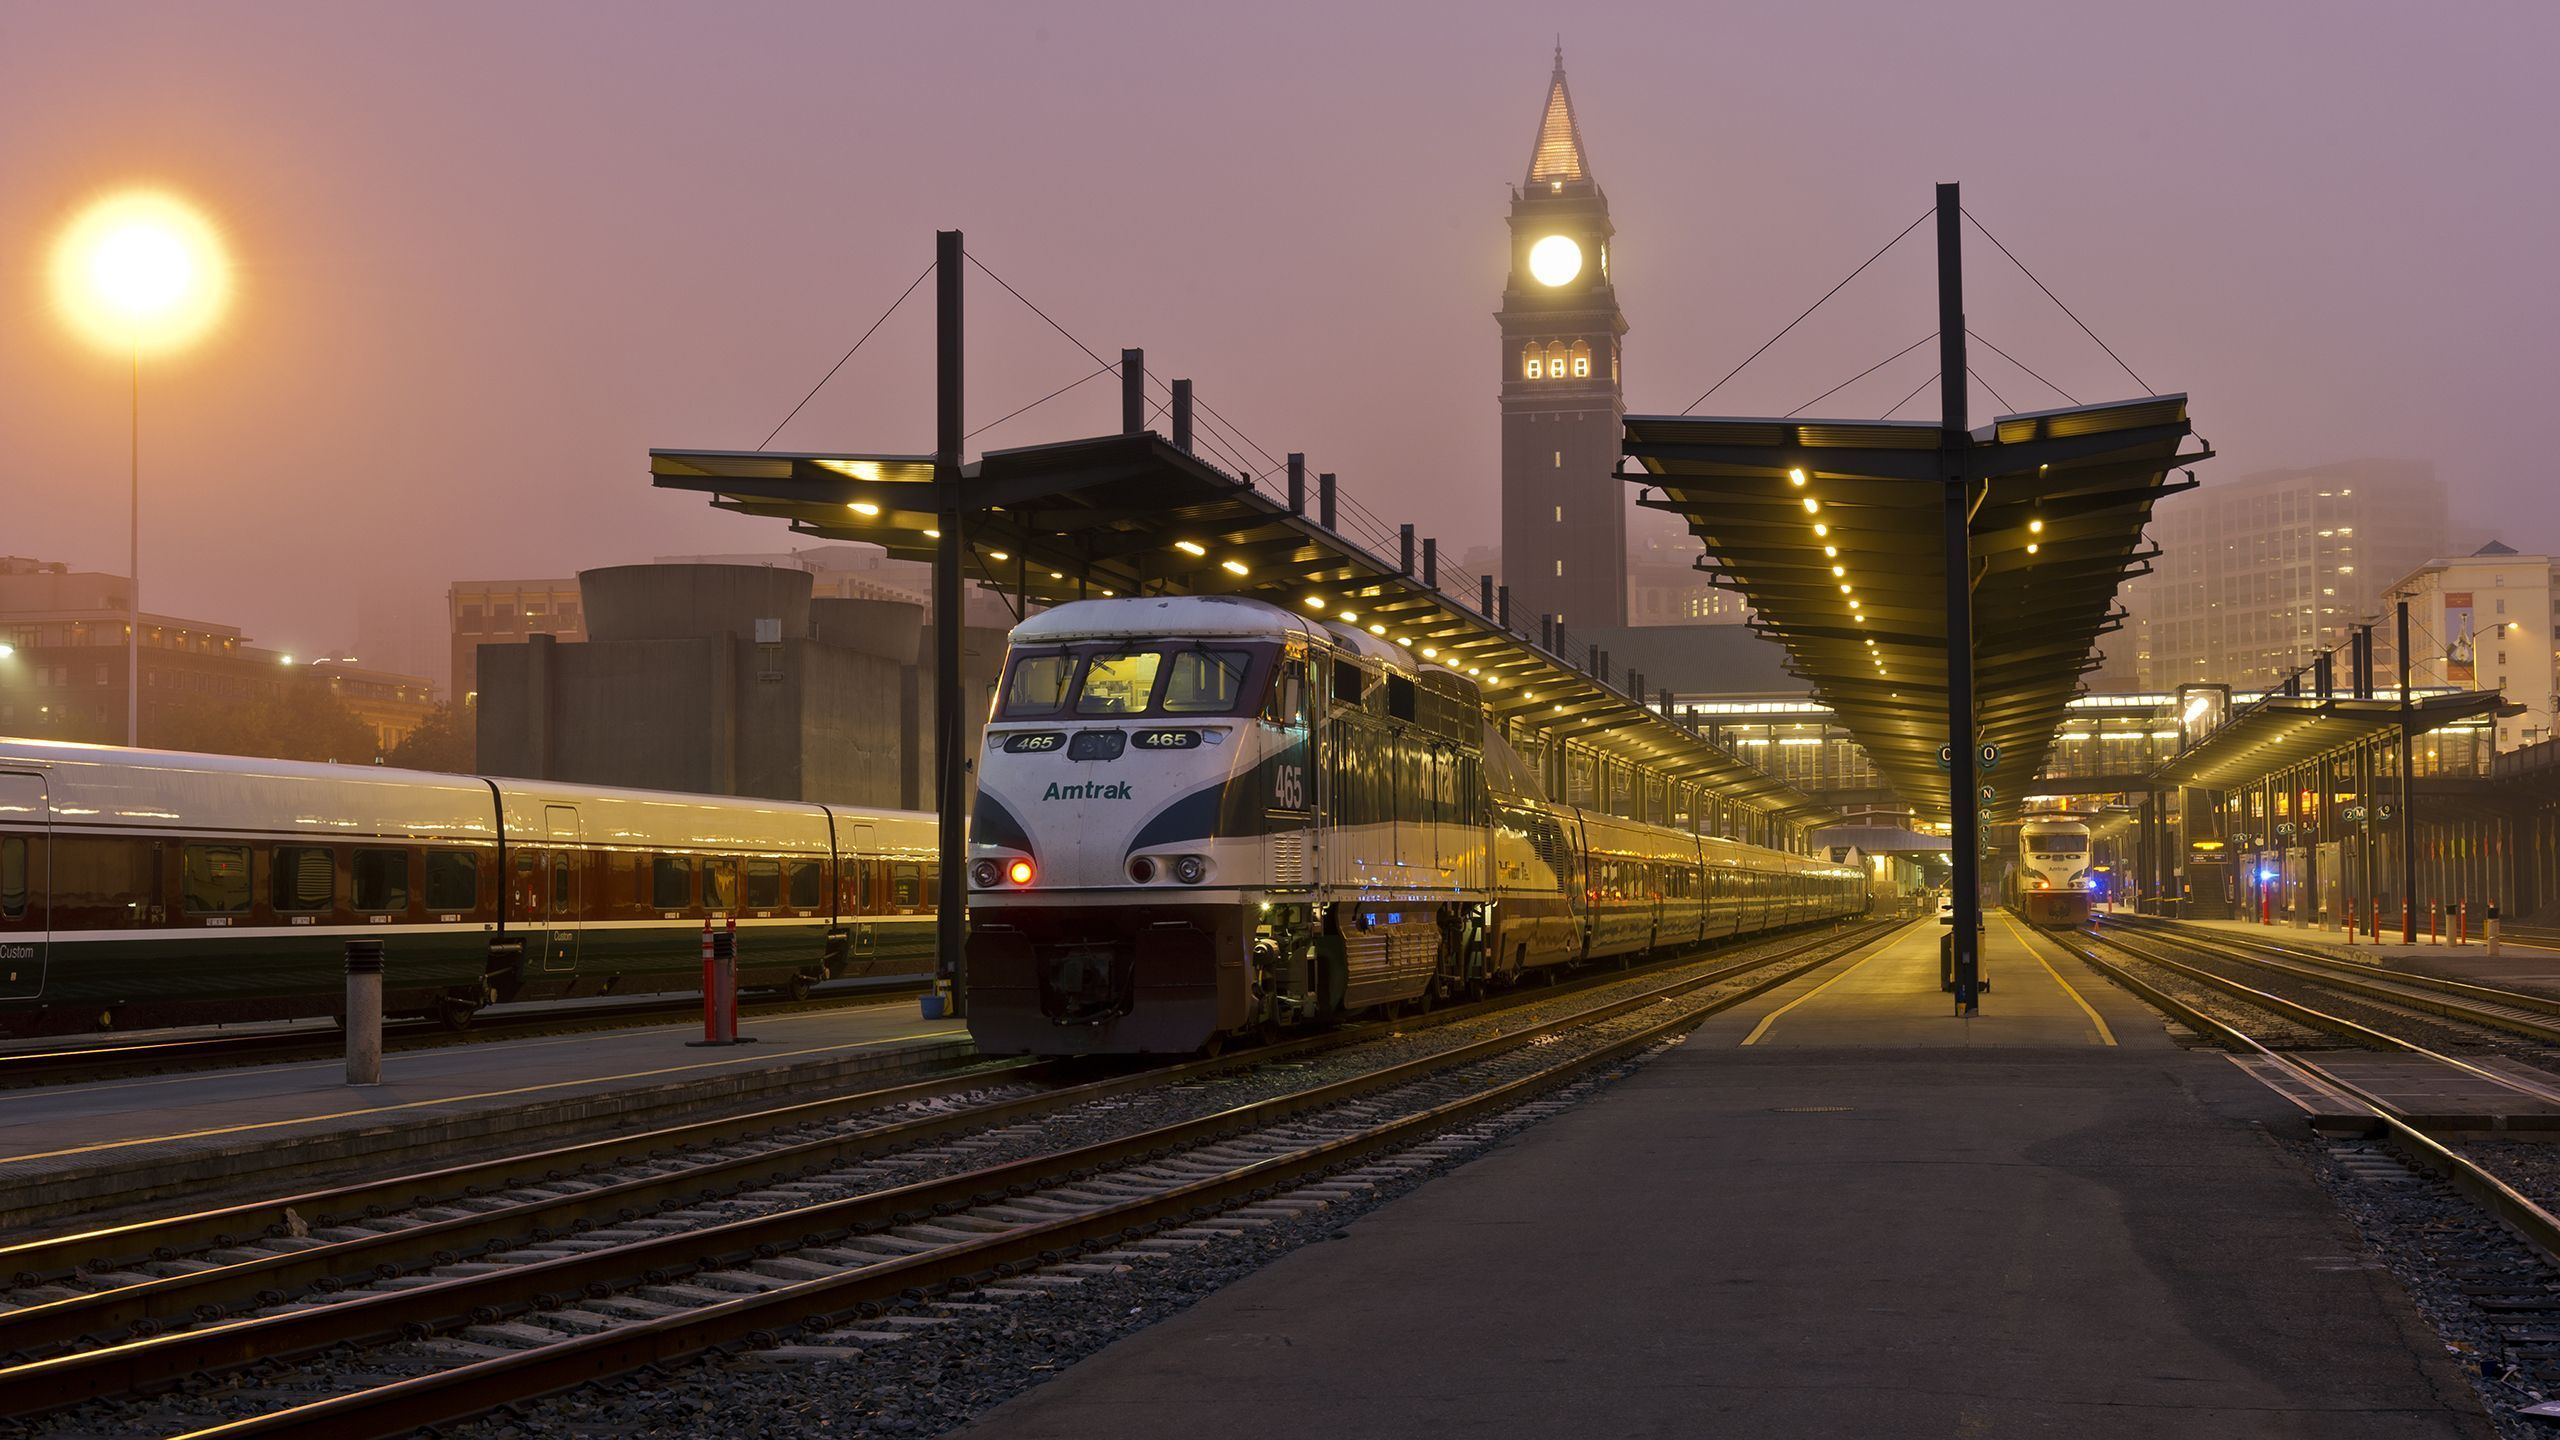
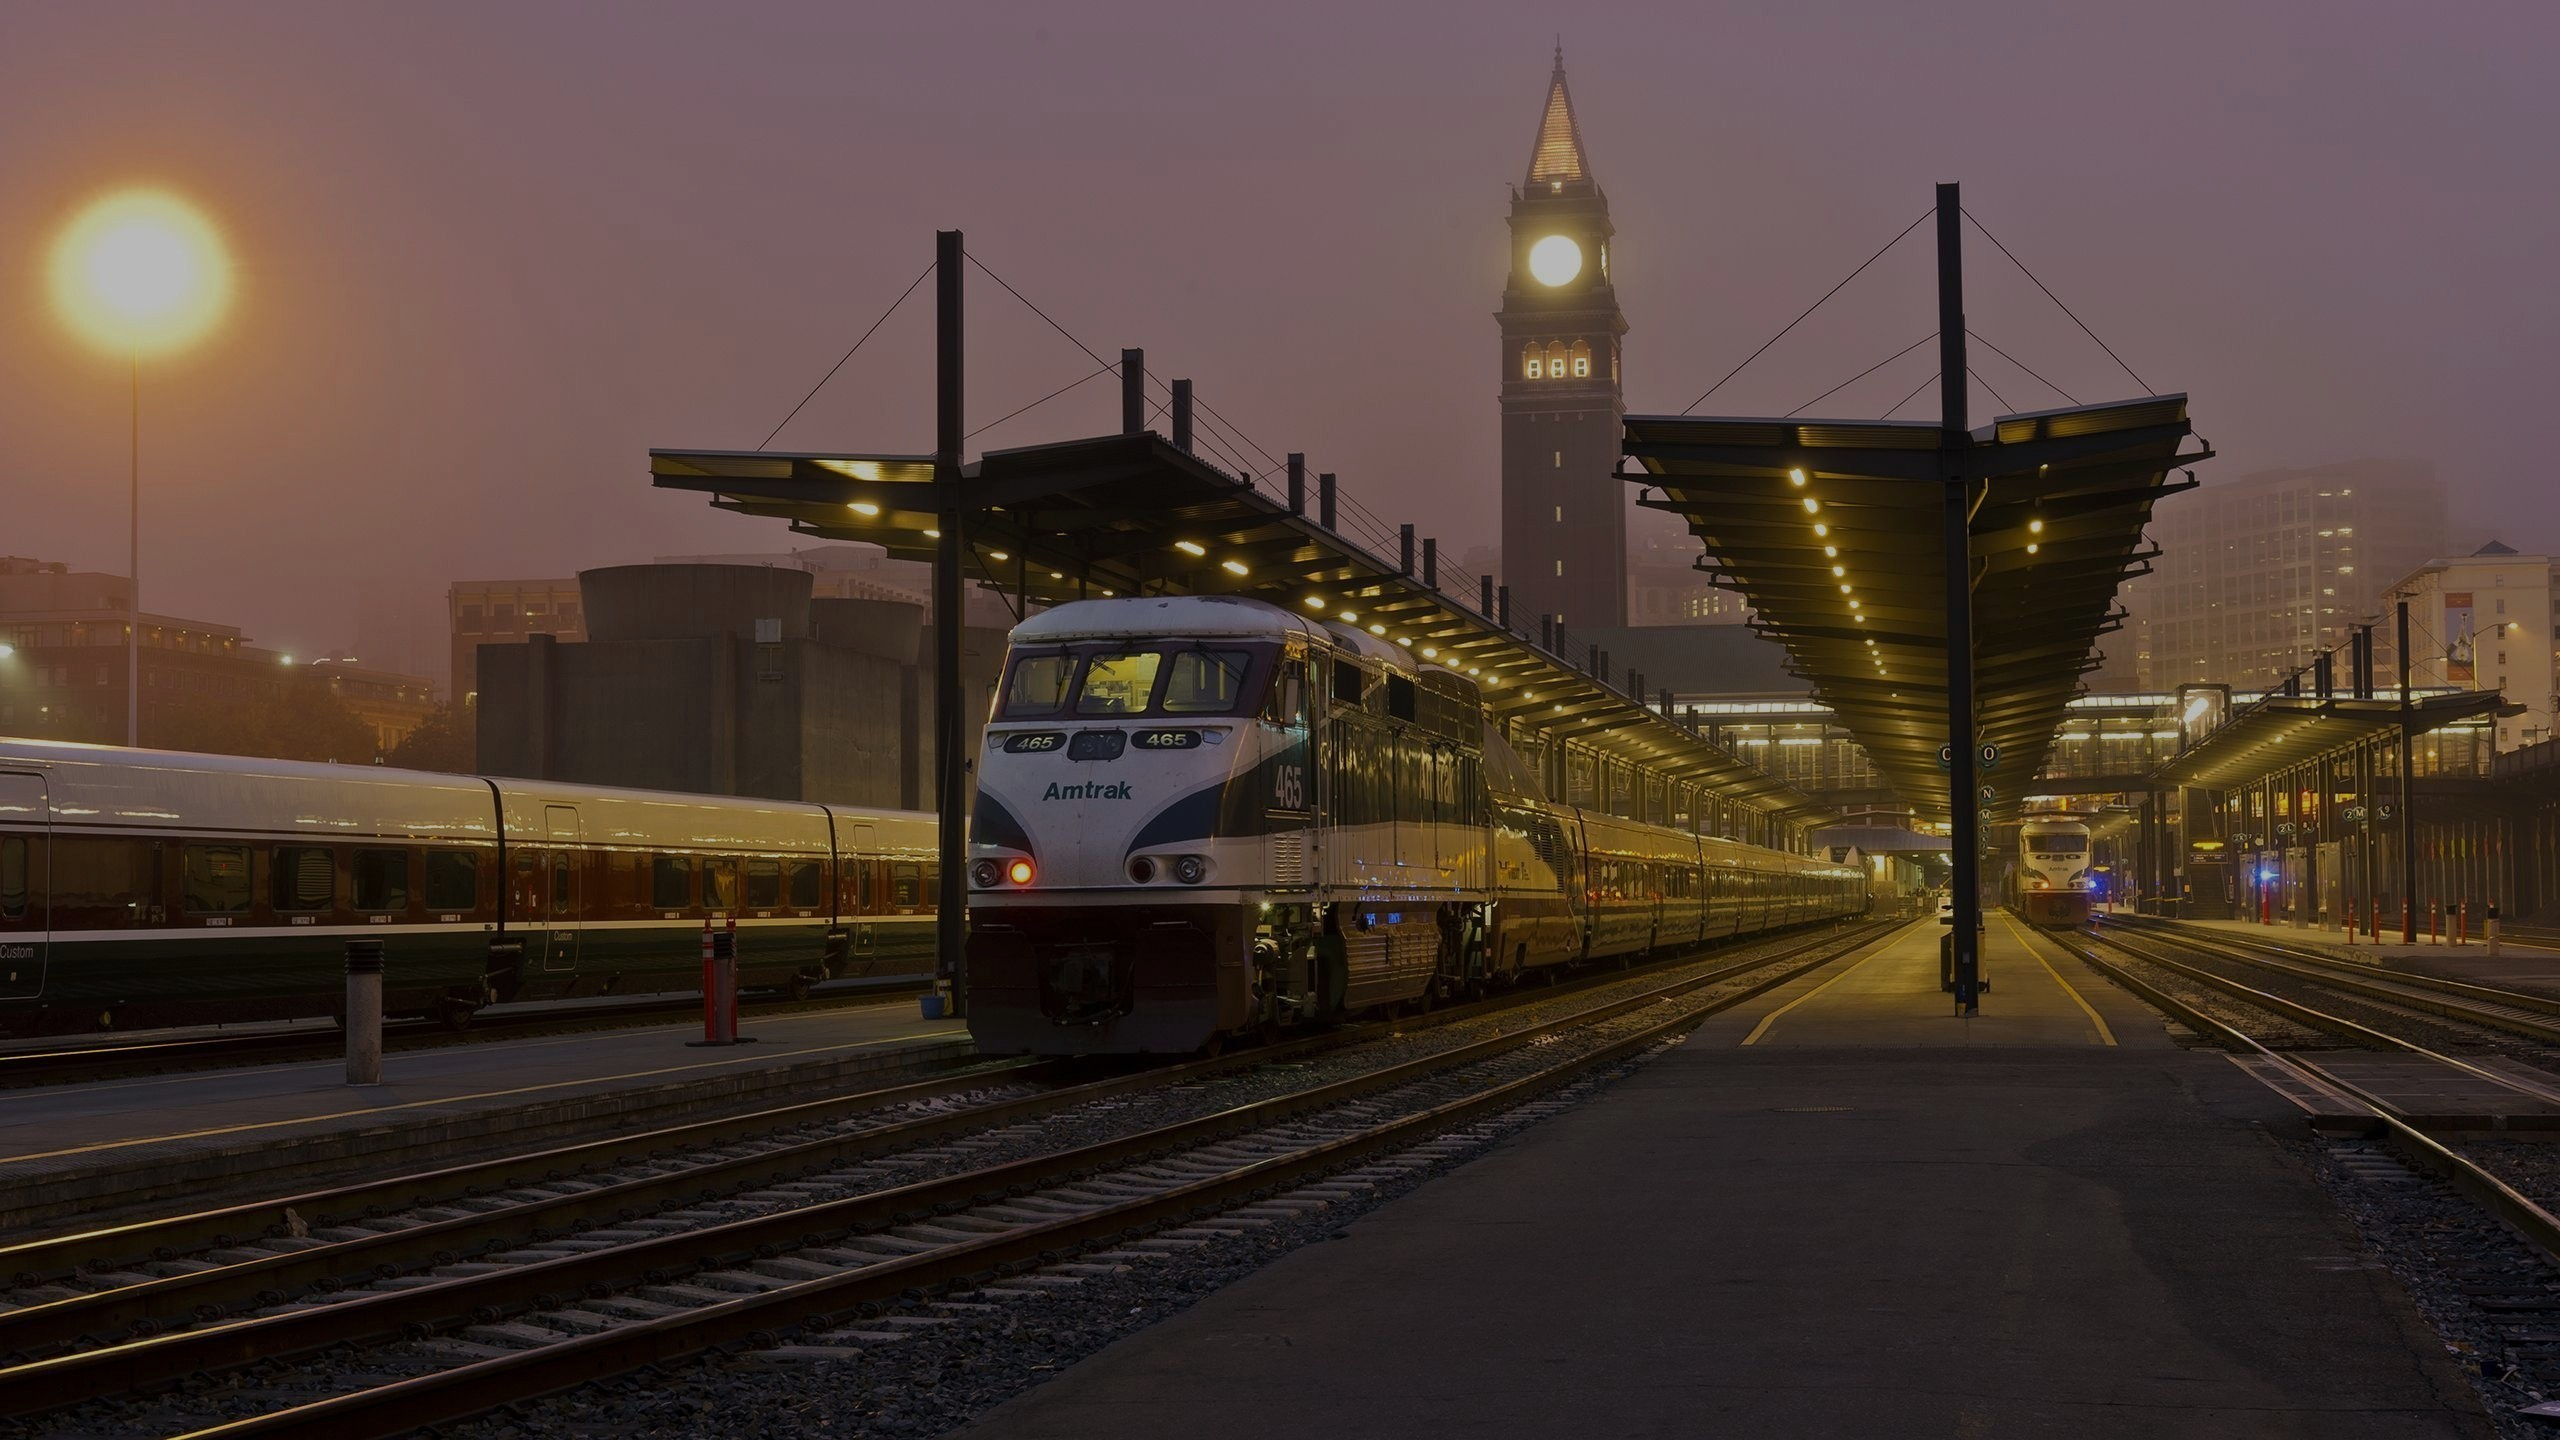
pull

diff --git a/PUBLIC/home.html b/PUBLIC/home.html
@@ -12,44 +12,49 @@
         <nav class="navbar bg-body-tertiary">
             <div class="container">
                 <a class="navbar-brand" href="home.html">
-                    <img src="../assets/img/Logo.png"   alt="login">
+                    <img src="../assets/img/Logo.png" alt="login">
                 </a>
             </div>
             <div class="nav-direita">
                 <a class="nav-login" href="login.html">Login</a>
                 <a class="nav-user" href="login.html">
-                    <img src="../assets/img/icon-user.webp"  alt="home">
+                    <img src="../assets/img/icon-user.webp" alt="home">
                 </a>
             </div>
         </nav>
     </div>
 
     <main>
-        <div class="container">
-            <div class="title">
-                <h1>Planejamento URBANO Muda o Mundo</h1>
+        <div class="part-1">
+            <div class="container">
+                <div class="title">
+                    <div class="IA"><h1>O Planejamento Muda o Mundo</h1></div>
+                    
+                    <div class="IU"><h1>Urbano</h1></div>
+                </div>
+                <div class="description">
+                    <b>Planejamento urbano ao longo das decádas tems e tornado algo cada vez mais
+                        importante, principalmente agora que a tecnologia tem se tornado cada vez mais comun, venha e
+                        conheça a
+                        Trainsecurity e veja nosso processo de implementação de ferrovias e metrôs no país.</b>
+                </div>
             </div>
-            <div class="description">
-                <p>Planejamento urbano ao longo das decádas tems e tornado algo cada vez mais
-                    importante, principalmente agora que a tecnologia tem se tornado cada vez mais comun, venha e
-                    conheça a
-                    Trainsecurity e veja nosso processo de implementação de ferrovias e metrôs no país.</p>
+            <div class="subcontainer">
+                <div class="card">
+                    <h3>Joinville - SC</h3>
+                    <p>Conheças nossos projetos para o Sul</p>
+                </div>
+                <div class="card">
+                    <h3>Rio de Janeiro - RJ</h3>
+                    <p>Venha e conheça nossos projetos na cidade maravilhosa</p>
+                </div>
+                <div class="card">
+                    <h3>Brasilia - DF</h3>
+                    <p>Veja nossos projetos na capital</p>
+                </div>
             </div>
         </div>
-        <div class="subcontainer">
-            <div class="card">
-                <h3>Joinville - SC</h3>
-                <p>Conheças nossos projetos para o Sul</p>
-            </div>
-            <div class="card">
-                <h3>Rio de Janeiro - RJ</h3>
-                <p>Venha e conheça nossos projetos na cidade maravilhosa</p>
-            </div>
-            <div class="card">
-                <h3>Brasilia - DF</h3>
-                <p>Veja nossos projetos na capital</p>
-            </div>
-        </div>
+
     </main>
     <div class="Wblock"></div>
 </body>

diff --git a/assets/style/style.css b/assets/style/style.css
@@ -40,19 +40,37 @@
     padding: 0;
 
 }
-
+.title{
+    padding-top: 150px;
+    padding-left: 90px;
+    
+    display: flex;
+}
+.description{
+   padding-left: 95px; 
+}
 .subcontainer{
     display: flex;
     grid-template-columns: auto auto auto;
 }
-
+.container{
+    padding-right: 840;
+}
+.IA{
+    font-family: 'Franklin Gothic Medium', 'Arial Narrow', Arial, sans-serif;
+}
+.IU{
+    font-family: ;
+}
+.part-1{
+      background-image: url(../img/Fundo_Home.jpg);
+    background-repeat: no-repeat;
+    background-size: cover;
+    background-attachment: fixed;  
+}
 
 
 #body-h{
-    background-image: url(../img/Fundo_Home.jpg);
-    background-repeat: no-repeat;
-    background-size: cover;
-    background-attachment: fixed;
     color: white;
     margin: 0;
 }
@@ -157,16 +175,7 @@
     color: white;
 }
 
-.Wblock {
-    background-color: #ffffff;
-    width: 120%;
-    height: 150px;
-    padding: 0;
-    margin: 0;
-    position: fixed;
-    bottom: 0;
-    z-index: 1000;
-}
+
 
 #body-w {
 background-image: url(../img/chu_chu.jpg);
@@ -175,7 +184,7 @@ background-repeat: no-repeat;
     background-attachment: fixed;
 }
 
-<<<<<<< HEAD
+
 .title-6 {
     background-image: url(../img/RJ_Cristo.jpg);
     background-repeat: no-repeat;
@@ -187,7 +196,7 @@ background-repeat: no-repeat;
 .text-6 {
     text
 }
-=======
+
 .hero-section {
     height:100vh;
     width: 100%;
@@ -232,7 +241,7 @@ box-shadow: 0 8px 32 px 0 rgba(0, 0, 0, 0.3);
     color: black;
     transform: translateY(-3px);
 }
-<<<<<<< HEAD
+
 .blue{
     padding: 100px;
     background-color: rgb(99, 99, 99);
@@ -242,6 +251,4 @@ box-shadow: 0 8px 32 px 0 rgba(0, 0, 0, 0.3);
     background-color: rgb(255, 255, 255);
     margin: 30px;
 }
-=======
->>>>>>> 5b2e974f509ec5a858cf5b1a384066c7e56b6c32
->>>>>>> 139d2c09b222e7e39b2bf32f550d61f20418308f
+

diff --git a/PUBLIC/login.html b/PUBLIC/login.html
@@ -9,6 +9,7 @@
 </head>
 
 <body id="body-l">
+    
     <div class="flex">
         <div class="img-lateral">
             <img src="../assets/img/Logo.png" width="450" alt="">